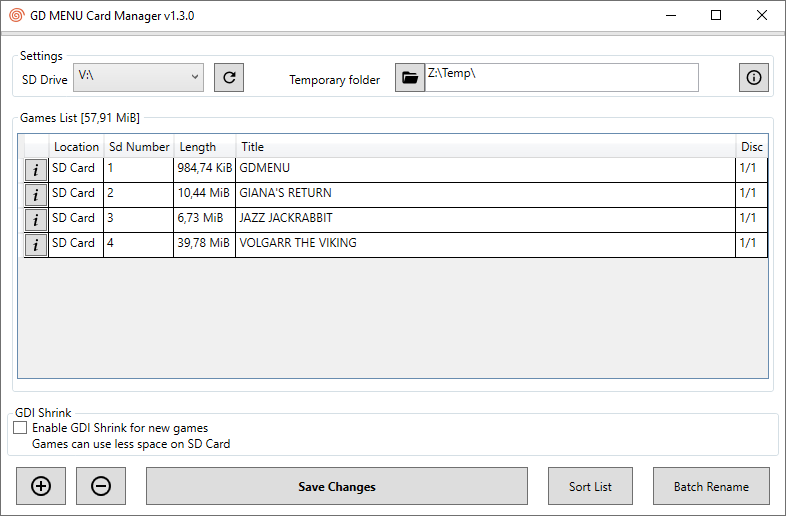
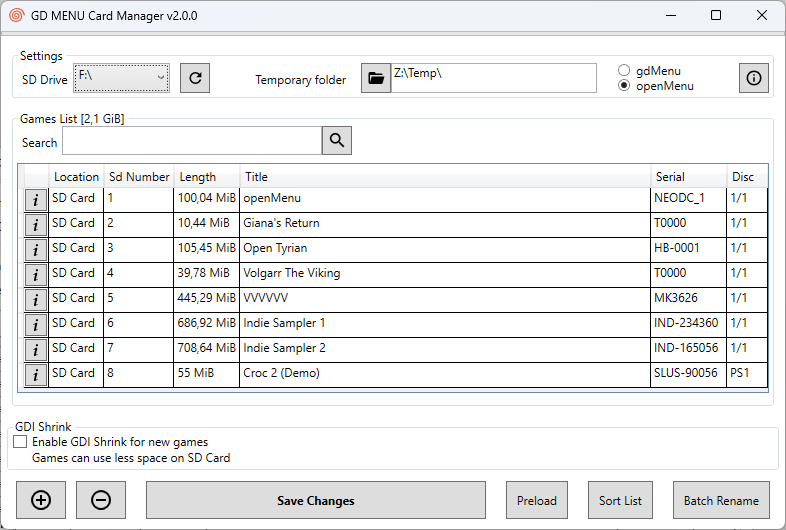
Version 2.0!

Changed region(s): [[0.0, 0.0, 1.0, 1.0]]

diff --git a/src/GDMENUCardManager/AboutWindow.xaml b/src/GDMENUCardManager/AboutWindow.xaml
@@ -14,7 +14,7 @@
                         GD MENU Card Manager - by Sonik
                     </Bold>
                     <LineBreak/>
-                    Tool to manage games on SD card - For use with GDEMU/GDMENU
+                    Tool to manage games on SD card - For use with GDEMU/GDMENU/openMenu
                 </Paragraph>
 
                 <Paragraph>

diff --git a/src/GDMENUCardManager.Core/Constants.cs b/src/GDMENUCardManager.Core/Constants.cs
@@ -9,6 +9,6 @@
         public const string GdiShrinkBlacklistFile = "gdishrink_blacklist.txt";
         public const string PS1GameDBFile = "gamedb.json";
         public const string DefaultImageFileName = "disc";
-        public const string Version = "v1.3.5";
+        public const string Version = "v2.0.0";
     }
 }

diff --git a/README.md b/README.md
@@ -1,5 +1,5 @@
 # GDMENU Card Manager
-Manage content on SD Card for Dreamcast's GDEmu/GDMenu
+Manage content on SD Card for Dreamcast's GDEmu/GDMenu/openMenu
 
 For GDEMU to properly work it's required to follow a pattern when putting files on the SD Card.<br/>
 If not done correctly it will take a lot of time to boot and can even fail to.<br/>
@@ -11,6 +11,7 @@ This program will save the files the proper way so you console will boot super f
 
 ## Features
 * Multi platform. Windows/Linux/OSX
+* Supports both GDmenu and openMenu
 * Supports GDI, CDI, MDS and CCD files. Also compressed files inside zip/rar/7z
 * Add/delete/rename items
 * Sort alphabetically
@@ -28,6 +29,12 @@ Can reduce the size of the game but some games won't work properly.
 The program have a blacklist with some games known to have problems after shrinking.
 
 By default the blacklist will be used and those games will not be shrunk.
+
+### openMenu
+openMenu will display customized icon, box art and text info for each title, but it requires additional files.
+
+openMenu DAT files should go to this app's subfolder `tools\openMenu\menu_data`.<br/>
+Grab the DAT files from mrneo240's repos: [imagedb](https://github.com/mrneo240/openMenu_imagedb) and [metadb](https://github.com/mrneo240/openMenu_metadb)
 
 ### Windows version requires the .Net 6 Desktop Runtime
 Download and install the [Desktop Runtime installer](https://dotnet.microsoft.com/download/dotnet/6.0/runtime) for your system.
@@ -54,6 +61,7 @@ On Linux version it's not possible to use drag-and-drop.
 This software is made possible by using third party tools:
 
 GDmenu by neuroacid<br />
+[openMenu](https://github.com/mrneo240/openmenu/),
 [GdiTools](https://sourceforge.net/projects/dcisotools/),
 [GdiBuilder](https://github.com/Sappharad/GDIbuilder/),
 [Aaru](https://github.com/aaru-dps/Aaru/),
